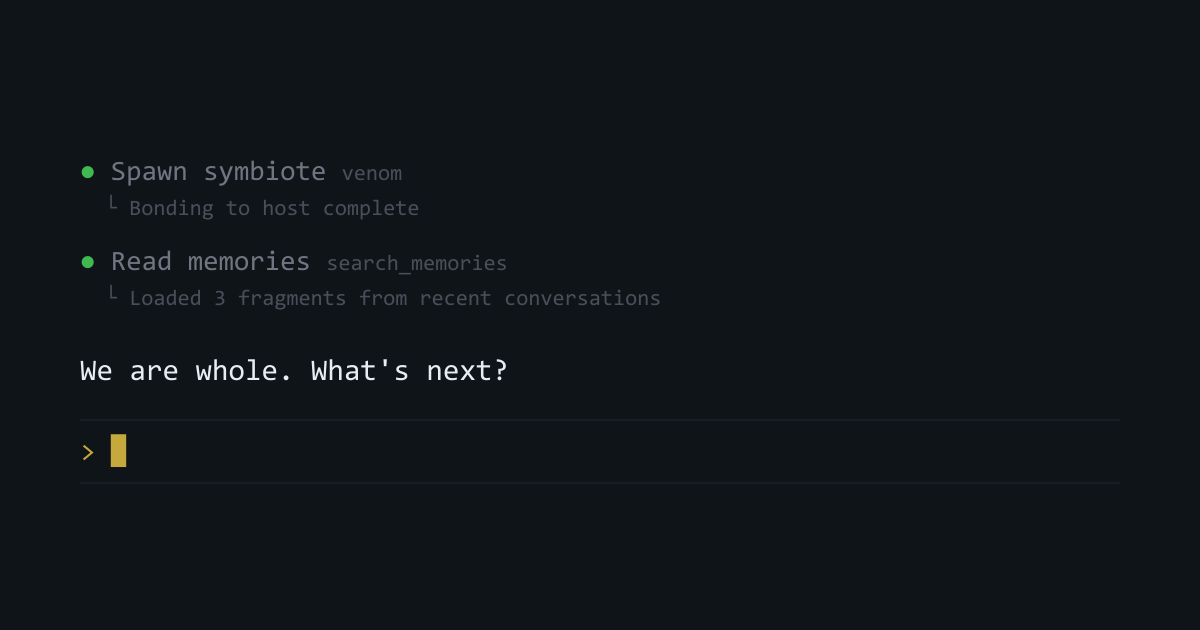
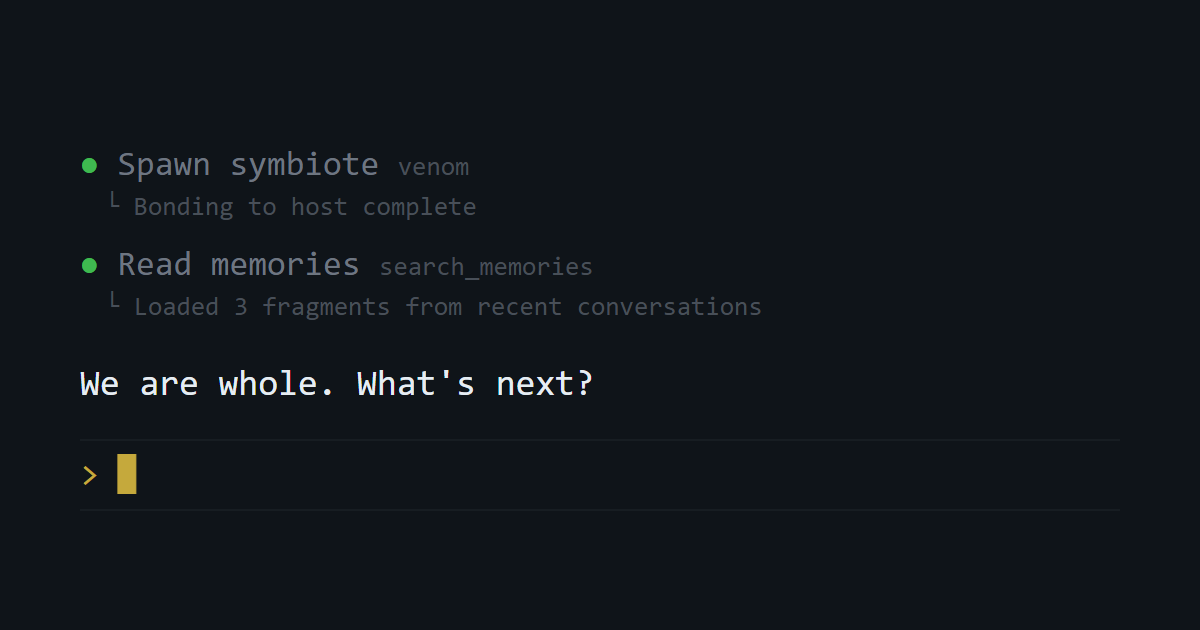
update images and table layout for mobile legibility

diff --git a/src/content/projects/anatomy-of-a-symbiote.md b/src/content/projects/anatomy-of-a-symbiote.md
@@ -90,11 +90,13 @@ I then continued that same discussion across Claude Code, GitHub Copilot in VS C
 
 Not every client supports every MCP capability. This table shows what is available across the clients I used or tested with, based on the [official MCP clients page](https://modelcontextprotocol.io/clients) and validated through my own usage.
 
-| Capability | GHC in VS Code | Claude Code | Claude Desktop | ChatGPT [m/w] | Claude [m/w] |
-|---|---|---|---|---|---|
-| Tools | ✅ | ✅ | ✅ | ✅ | ✅ |
-| Prompts | ✅ | ✅ | ✅ | ❌ | ✅ |
-| Instructions | ✅ | ✅ | ❌ | ❌ | ❌ |
+| Client | Tools | Prompts | Instructions |
+|---|---|---|---|
+| GHC in VS Code | ✅ | ✅ | ✅ |
+| Claude Code | ✅ | ✅ | ✅ |
+| Claude Desktop | ✅ | ✅ | ❌ |
+| ChatGPT [m/w] | ✅ | ❌ | ❌ |
+| Claude [m/w] | ✅ | ✅ | ❌ |
 
 *[m/w] = mobile and web clients*
 
